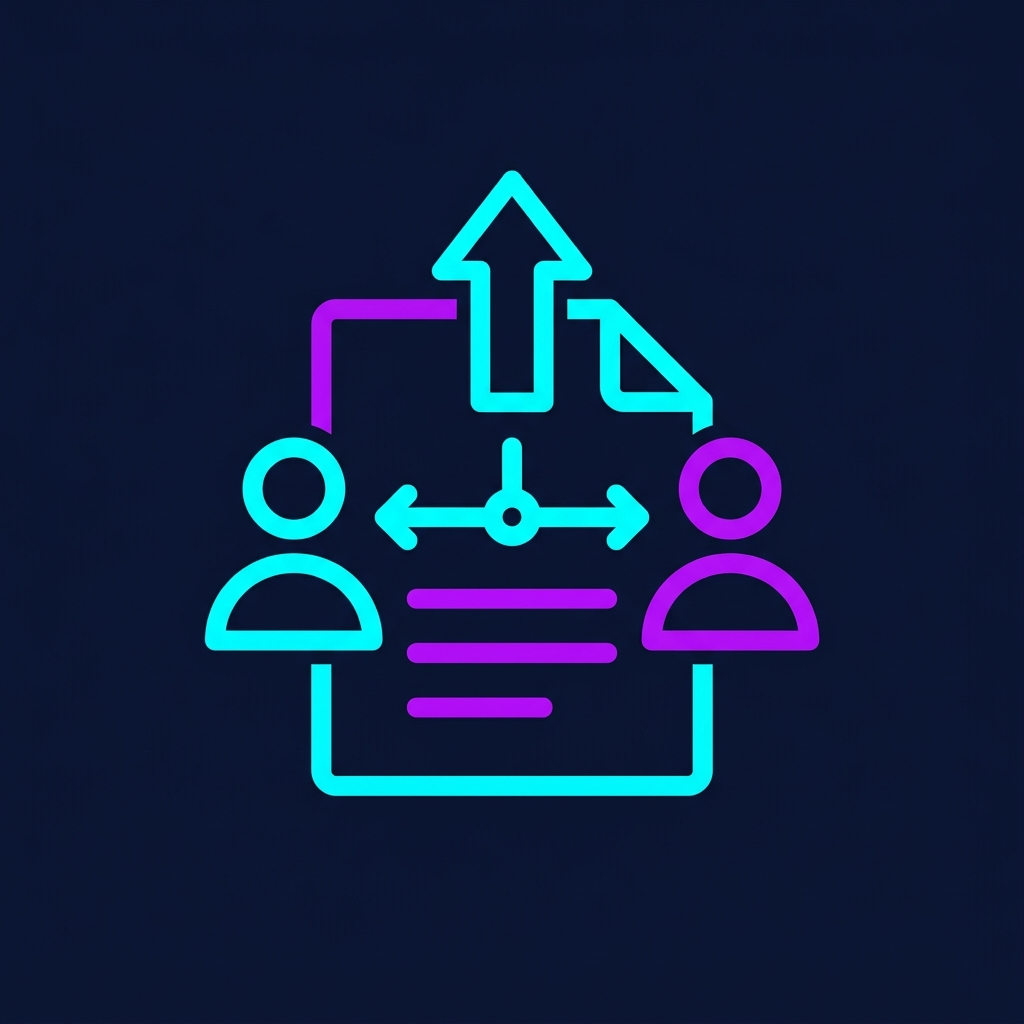
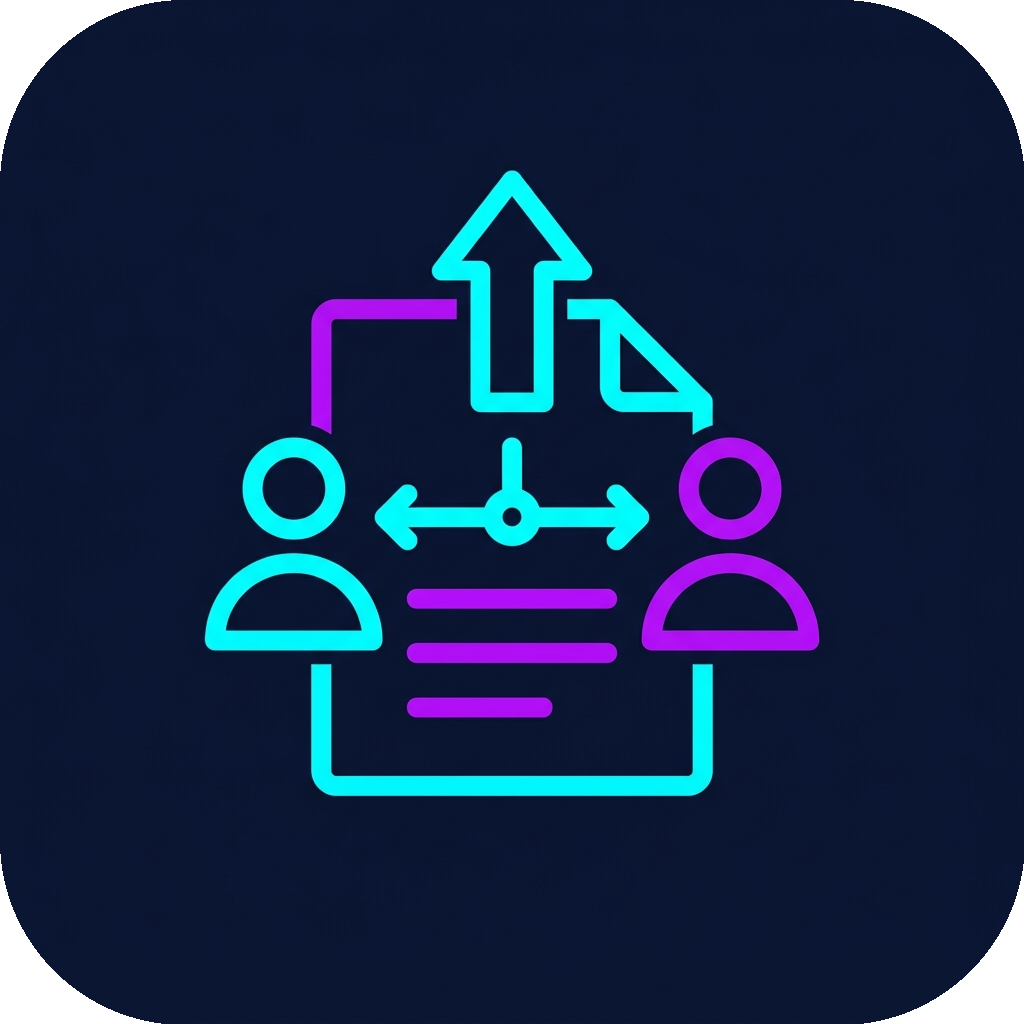
style(branding): apply uniform rounded white corners v1.0.14

diff --git a/CHANGELOG.md b/CHANGELOG.md
@@ -5,6 +5,12 @@ All notable changes to this project will be documented in this file.
 The format is based on [Keep a Changelog](https://keepachangelog.com/en/1.1.0/),
 and this project adheres to [Semantic Versioning](https://semver.org/spec/v2.0.0.html).
 
+## [1.0.14] - 2026-07-19
+
+### Changed
+- **Uniform Rounded Icon**: Applied a rounded corner mask with white-filled borders to make all application icons perfectly uniform.
+
+
 ## [1.0.13] - 2026-07-19
 
 ### Changed